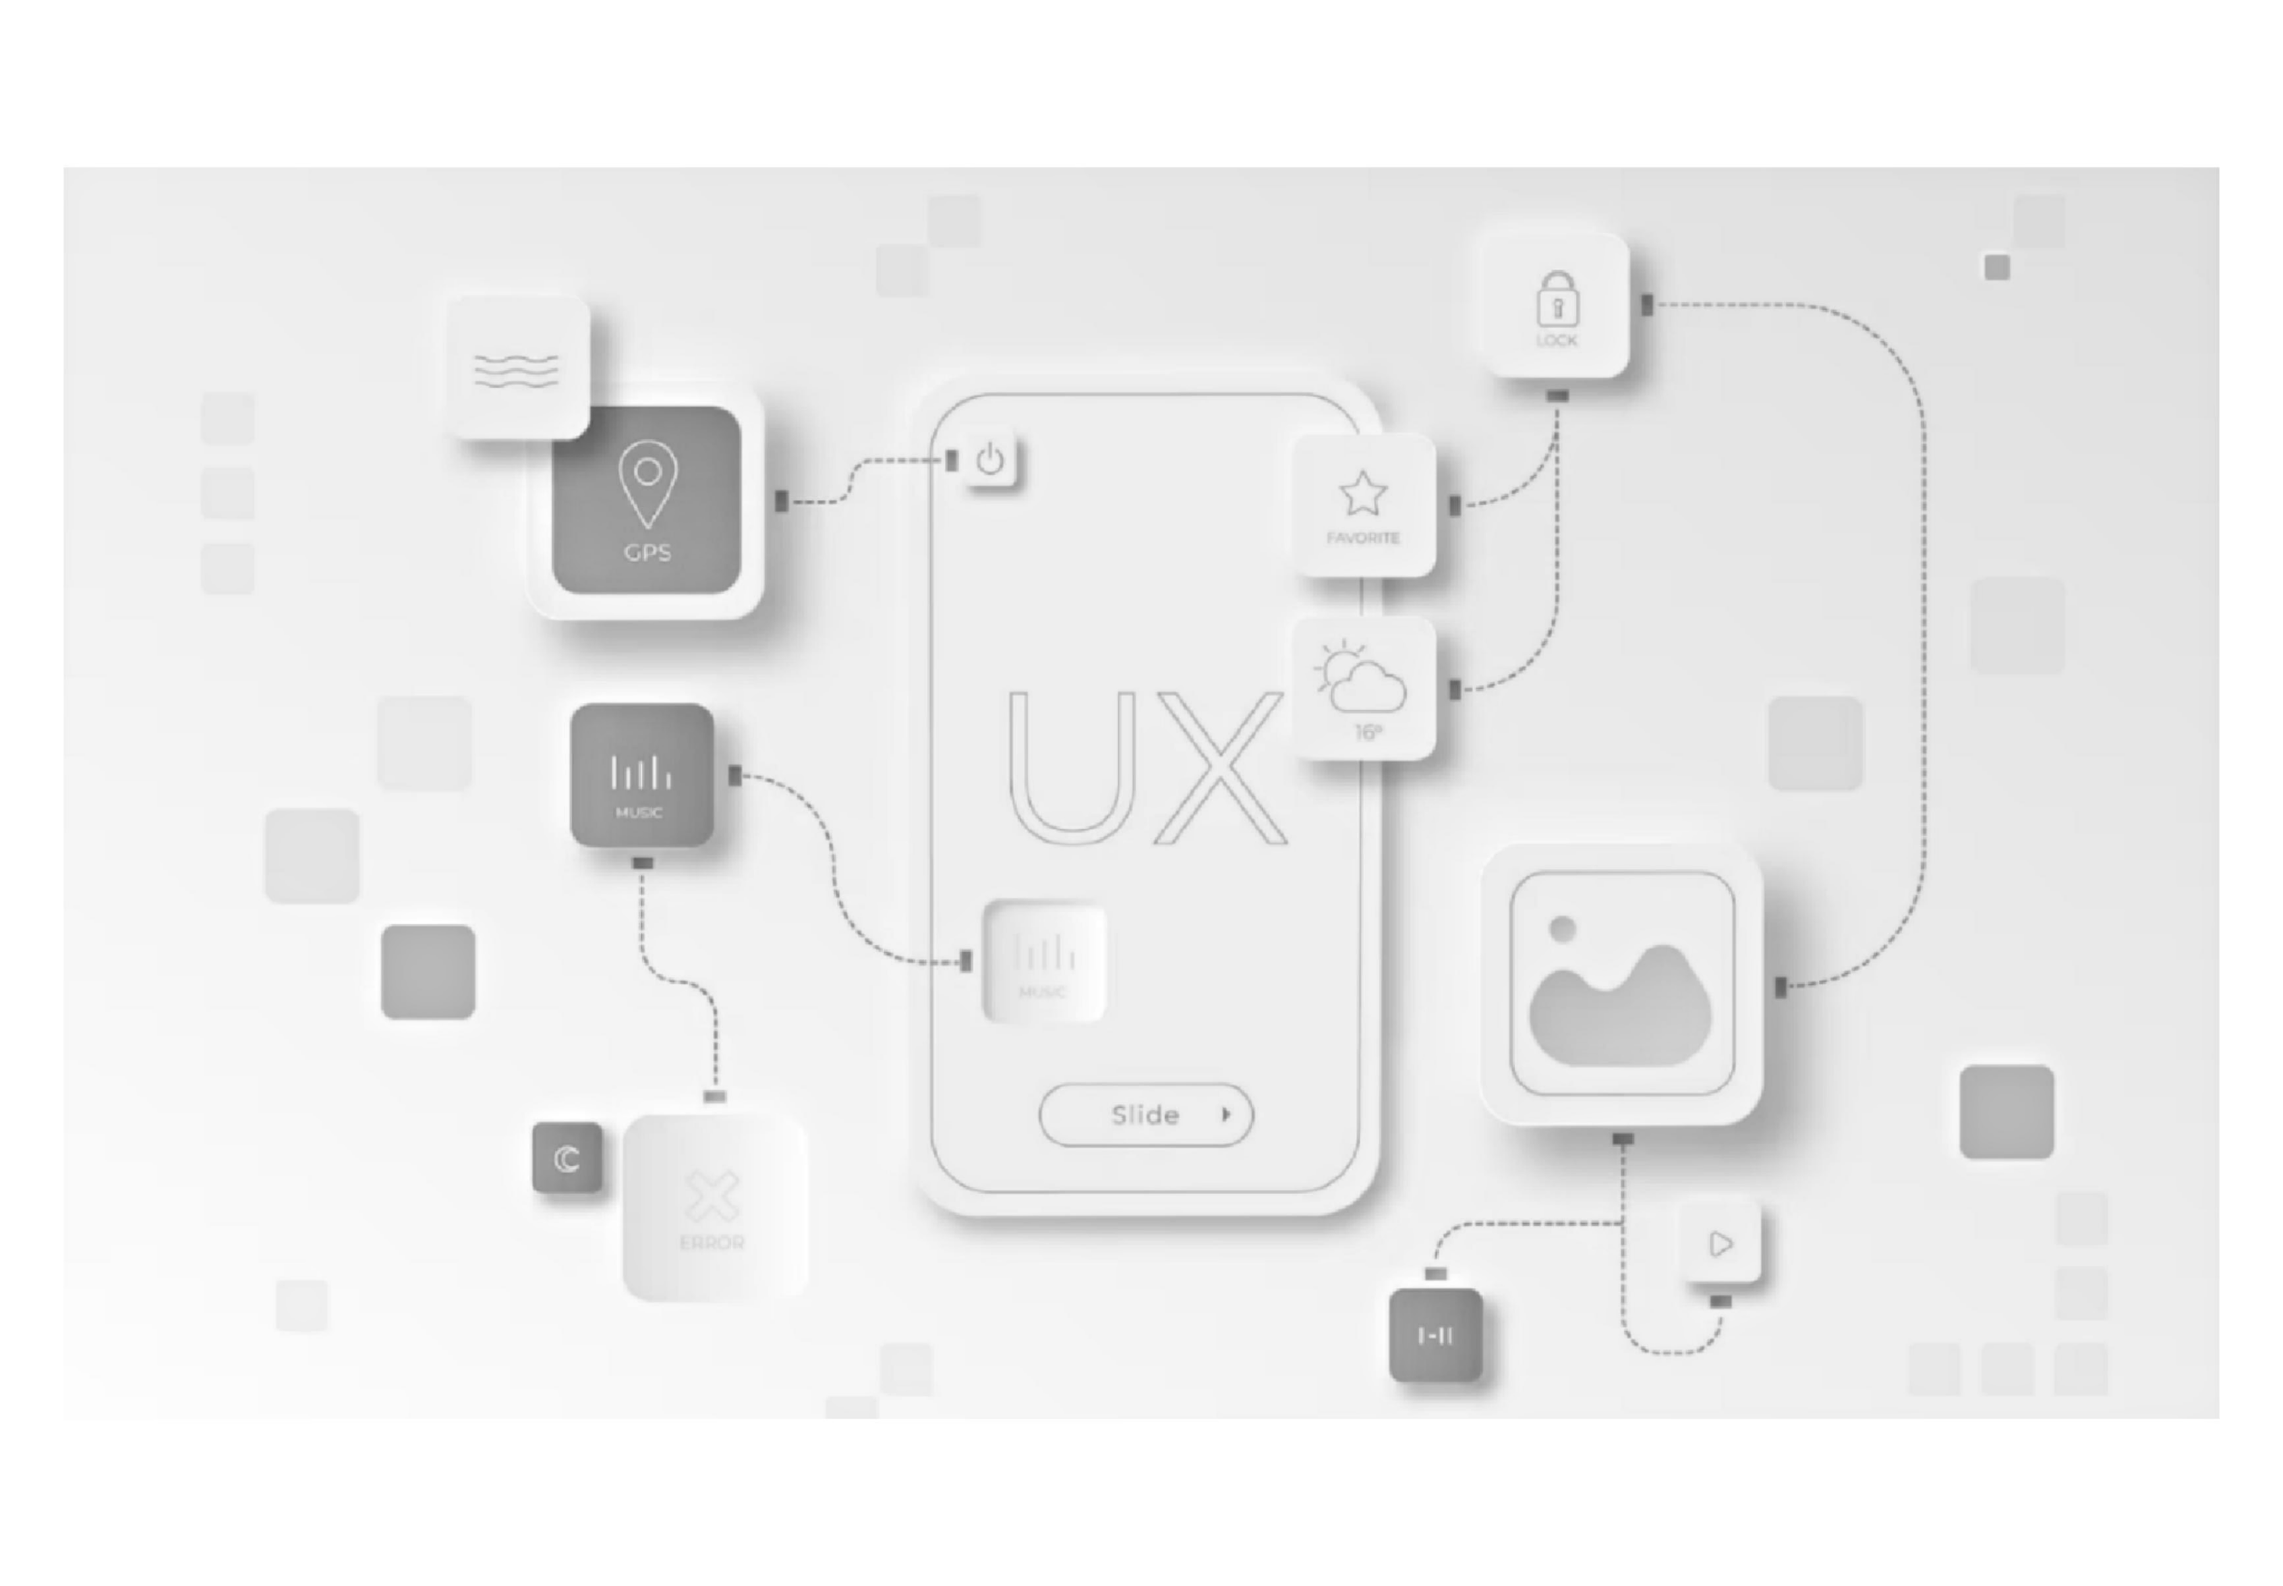
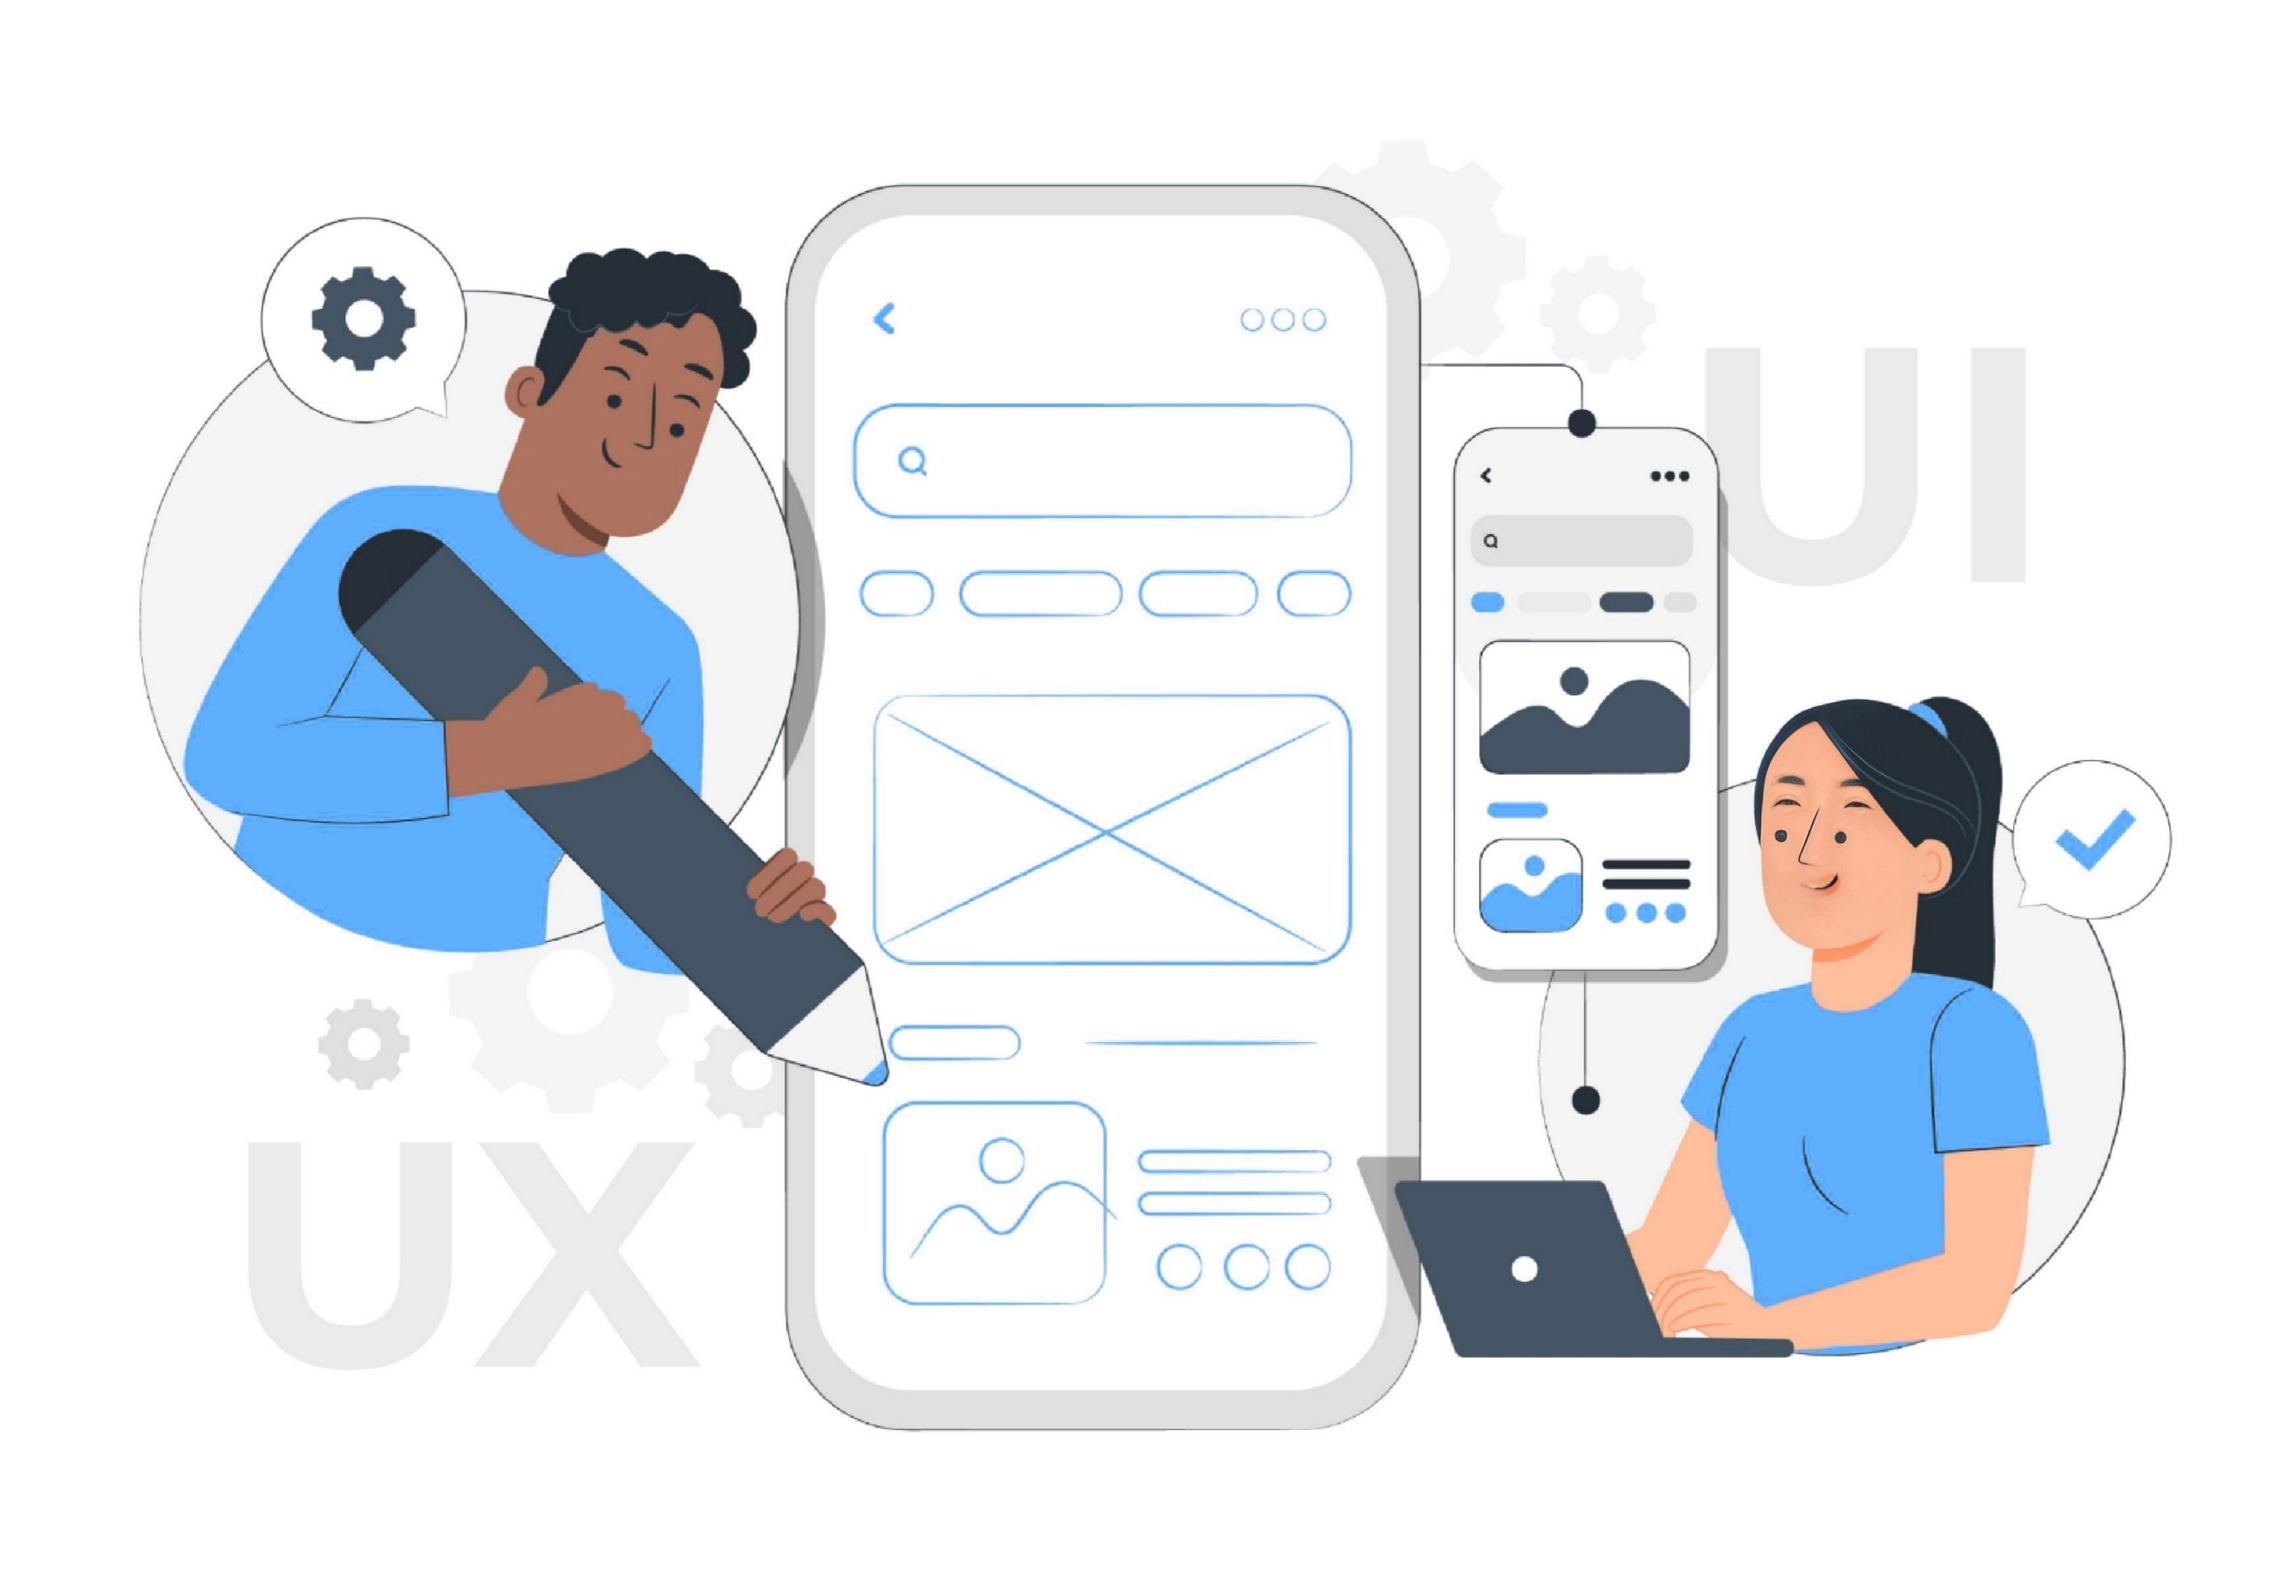
assets update

diff --git a/src/Components/WhyUs.js b/src/Components/WhyUs.js
@@ -3,7 +3,7 @@ import GRAPHICDESIGN from "../Assets/GRAPHICDESIGN.png";
 import WEBDEV from "../Assets/WEBDEV.png";
 import WEBREVAMP from "../Assets/WEBREVAMP.png";
 import CUSTOMSOFT from "../Assets/CUSTOMSOFT.png";
-import UIUX from "../Assets/UIUX.png";
+import UIUXw from "../Assets/UIUXw.png";
 
 function WhyUs() {
   const services = [
@@ -21,7 +21,7 @@ function WhyUs() {
     },
     {
       name: "UI/UX Design",
-      image: UIUX,
+      image: UIUXw,
       description:
         "Engaging and user-friendly interfaces designed for seamless digital experiences.",
     },
